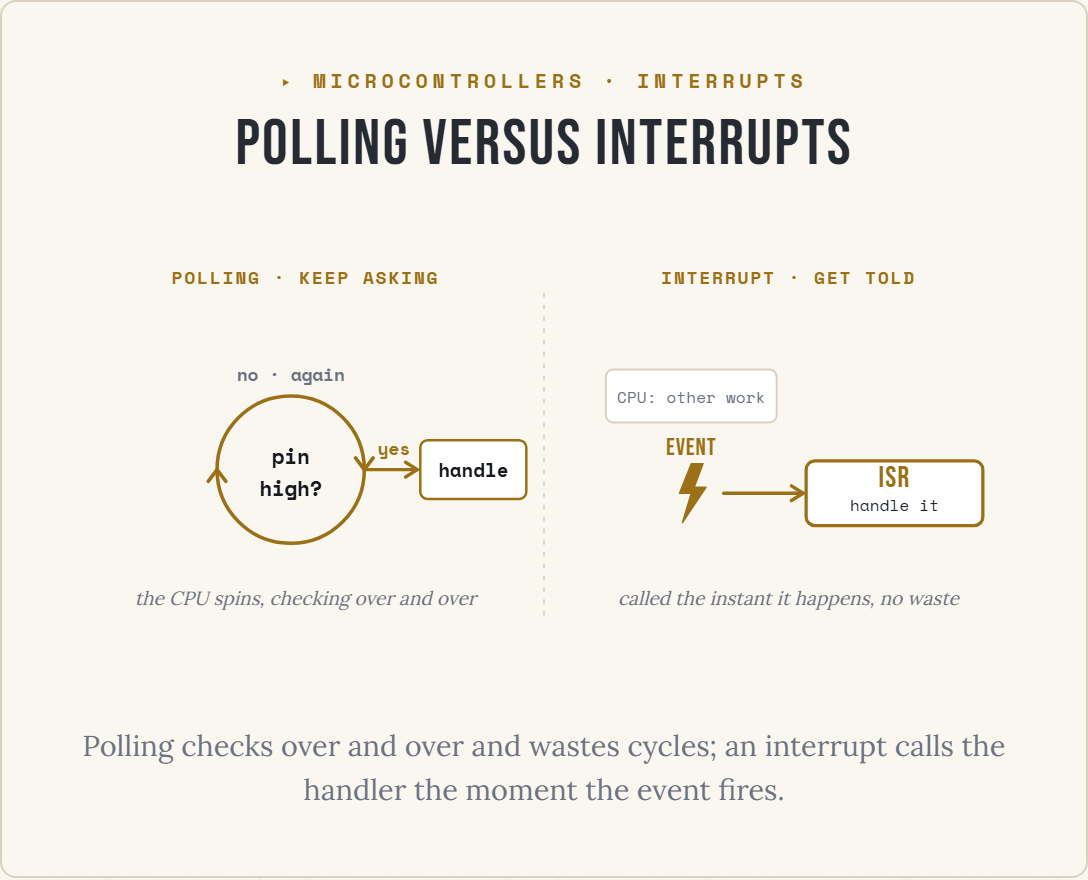
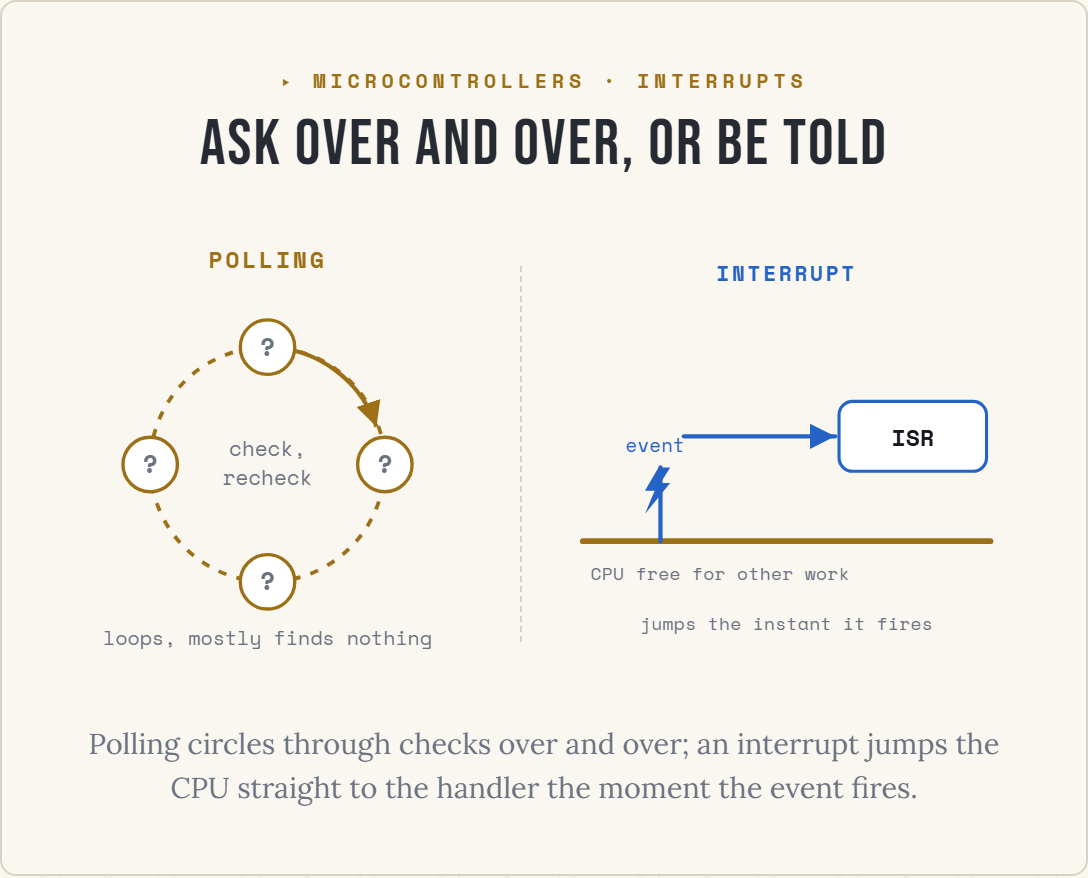
redo(diagrams): mcu-poll-vs-interrupt — a loop vs a straight jump (8/11)
Rebuild to the house bar: the contrast made visual. Polling is a circling loop of
repeated pin checks that mostly find nothing; an interrupt is a straight path,
the event jumping the CPU directly into a short ISR. Gold = the checking loop,
blue = the event path. Two SVG panels that stack full-width on a phone. Landscape
1.27.

diff --git a/src/components/guide/diagrams/McuPollVsInterrupt.tsx b/src/components/guide/diagrams/McuPollVsInterrupt.tsx
@@ -1,106 +1,118 @@
-// Polling versus interrupts (v2). Microcontrollers & ESP32 cluster.
+// Polling versus interrupts (diagram-standards v2). MCU cluster, diagram 8.
+// Owner-picked I4: a circling loop, versus a straight jump.
 //
-// Teaching point: polling is the CPU asking "has it happened yet?" over and over,
-// wasting cycles. An interrupt lets the hardware call your handler the instant the
-// event fires, so the CPU is free until then.
+// Teaching point (lesson 7): polling loops and reads a pin over and over, mostly
+// finding nothing and burning cycles. An interrupt flips it: the hardware watches,
+// and the instant the event fires it jumps the CPU straight into a short handler
+// (the ISR). Left panel draws polling as a loop that circles through checks; right
+// panel draws the interrupt as a straight event-to-ISR path. Gold = the checking
+// loop, blue = the event/interrupt path.
 //
-// Landscape desktop/print: a looping poll circle on the left versus a straight
-// event-to-ISR shot on the right. REFLOWS on a phone to two stacked cards. Tokens.
+// Two SVG panels in a flex row, so they stack full-width on a phone. Token color,
+// both themes. Header + caption from the DiagramFrame.
 import { DiagramFrame } from "./DiagramFrame";
 
+function Bolt({ x, y }: { x: number; y: number }) {
+  return <path d={`M${x} ${y} l -7 12 l 5 0 l -5 12 l 13 -16 l -5 0 l 5 -8 z`} className="pi-bolt" />;
+}
+
+const CHECKS = [
+  { x: 100, y: 54 },
+  { x: 156, y: 110 },
+  { x: 100, y: 166 },
+  { x: 44, y: 110 },
+];
+
 export function McuPollVsInterrupt({ caption }: { caption?: string }) {
-  const cx = 158, cy = 160, r = 50;
   return (
     <DiagramFrame
       eyebrow="MICROCONTROLLERS · INTERRUPTS"
       tone="gold"
-      title="Polling versus interrupts"
-      ariaLabel="Two ways to react to an event, side by side. On the left, polling: the CPU loops, checking the pin over and over, asking is it high yet, and only catches the event on a later check, wasting cycles in between. On the right, an interrupt: the event fires and the hardware calls the interrupt service routine directly, the instant it happens, while the CPU was free to do other work. The interrupt path is direct; the polling path goes in circles."
+      title="Ask over and over, or be told"
+      ariaLabel="Two ways to catch an event, compared. On the left, polling is drawn as a loop: the CPU circles through repeated checks of a pin, asking again and again and mostly finding nothing. On the right, an interrupt is drawn as a straight path: the event fires and jumps the CPU directly into a short interrupt service routine, the ISR, with no checking and a near-instant response."
       caption={caption}
-      defaultCaption="Polling checks over and over and wastes cycles; an interrupt calls the handler the moment the event fires."
+      defaultCaption="Polling circles through checks over and over; an interrupt jumps the CPU straight to the handler the moment the event fires."
     >
       <style>{CSS}</style>
-
       <div className="pi">
-        {/* desktop / print */}
-        <svg className="pi-scene" viewBox="0 0 660 300" aria-hidden="true">
-          <line className="pi-div" x1={330} y1={40} x2={330} y2={264} />
-
-          {/* ── POLLING ── */}
-          <text className="pi-hd" x={168} y={34} textAnchor="middle">POLLING · KEEP ASKING</text>
-          {/* loop circle with tangent arrowheads (clockwise) */}
-          <circle className="pi-loop" cx={cx} cy={cy} r={r} />
-          <path className="pi-loop" fill="none" d={`M${cx + r - 6},${cy - 8} L${cx + r},${cy} L${cx + r + 6},${cy - 8}`} />
-          <path className="pi-loop" fill="none" d={`M${cx - r - 6},${cy + 8} L${cx - r},${cy} L${cx - r + 6},${cy + 8}`} />
-          <text className="pi-cq" x={cx} y={cy - 4} textAnchor="middle">pin</text>
-          <text className="pi-cq" x={cx} y={cy + 18} textAnchor="middle">high?</text>
-          <text className="pi-no" x={cx} y={cy - r - 10} textAnchor="middle">no · again</text>
-          {/* exit: yes → handle */}
-          <line className="pi-w" x1={cx + r} y1={cy} x2={244} y2={cy} />
-          <path className="pi-w" fill="none" d={`M236,${cy - 5} L244,${cy} L236,${cy + 5}`} />
-          <text className="pi-yes" x={228} y={cy - 10} textAnchor="middle">yes</text>
-          <rect className="pi-box" x={246} y={cy - 20} width={72} height={40} rx={5} />
-          <text className="pi-bx" x={282} y={cy + 5} textAnchor="middle">handle</text>
-          <text className="pi-note" x={168} y={252} textAnchor="middle">the CPU spins, checking over and over</text>
-
-          {/* ── INTERRUPT ── */}
-          <text className="pi-hd" x={496} y={34} textAnchor="middle">INTERRUPT · GET TOLD</text>
-          {/* CPU free doing other work */}
-          <rect className="pi-boxd" x={372} y={92} width={116} height={36} rx={5} />
-          <text className="pi-dim" x={430} y={115} textAnchor="middle">CPU: other work</text>
-          {/* event bolt */}
-          <text className="pi-ev" x={430} y={150} textAnchor="middle">EVENT</text>
-          <path className="pi-bolt" d="M430,156 L422,176 L430,176 L424,196 L440,172 L432,172 L438,156 Z" />
-          {/* straight shot to ISR */}
-          <line className="pi-w" x1={452} y1={176} x2={506} y2={176} />
-          <path className="pi-w" fill="none" d="M498,171 L506,176 L498,181" />
-          <rect className="pi-box pi-isr" x={508} y={154} width={120} height={44} rx={6} />
-          <text className="pi-isrt" x={568} y={172} textAnchor="middle">ISR</text>
-          <text className="pi-isrs" x={568} y={188} textAnchor="middle">handle it</text>
-          <text className="pi-note" x={496} y={252} textAnchor="middle">called the instant it happens, no waste</text>
+        {/* POLLING — a loop */}
+        <svg className="pi-svg" viewBox="0 0 210 210" aria-hidden="true">
+          <defs>
+            <marker id="pi-g" markerWidth="8" markerHeight="8" refX="6" refY="3" orient="auto">
+              <path d="M0 0 L6 3 L0 6 Z" className="pi-mk-g" />
+            </marker>
+          </defs>
+          <text x="100" y="16" textAnchor="middle" className="pi-lbl-g">POLLING</text>
+          <circle cx="100" cy="110" r="56" className="pi-ring" />
+          <path d="M100 54 A56 56 0 0 1 152 92" className="pi-ring-arrow" markerEnd="url(#pi-g)" />
+          {CHECKS.map((c, i) => (
+            <g key={i}>
+              <circle cx={c.x} cy={c.y} r="13" className="pi-node" />
+              <text x={c.x} y={c.y + 4} textAnchor="middle" className="pi-q">?</text>
+            </g>
+          ))}
+          <text x="100" y="106" textAnchor="middle" className="pi-mid">check,</text>
+          <text x="100" y="120" textAnchor="middle" className="pi-mid">recheck</text>
+          <text x="100" y="196" textAnchor="middle" className="pi-note">loops, mostly finds nothing</text>
         </svg>
 
-        {/* phone reflow */}
-        <div className="pi-phone" aria-hidden="true">
-          <div className="pi-card pi-cgold">
-            <span className="pi-ceye">Polling</span>
-            <span className="pi-cv">The CPU loops, checking the pin over and over, and catches the event late. Cycles wasted between checks.</span>
-          </div>
-          <div className="pi-card pi-cgold">
-            <span className="pi-ceye">Interrupt</span>
-            <span className="pi-cv">The event fires and the hardware calls the ISR directly, the instant it happens, while the CPU was free.</span>
-          </div>
-        </div>
+        <div className="pi-div" aria-hidden="true" />
+
+        {/* INTERRUPT — a straight jump */}
+        <svg className="pi-svg pi-svg-r" viewBox="0 0 250 210" aria-hidden="true">
+          <defs>
+            <marker id="pi-b" markerWidth="8" markerHeight="8" refX="6" refY="3" orient="auto">
+              <path d="M0 0 L6 3 L0 6 Z" className="pi-mk-b" />
+            </marker>
+          </defs>
+          <text x="125" y="16" textAnchor="middle" className="pi-lbl-b">INTERRUPT</text>
+          <line x1="20" y1="150" x2="230" y2="150" className="pi-work" />
+          <text x="24" y="170" className="pi-note">CPU free for other work</text>
+          <line x1="60" y1="150" x2="60" y2="112" className="pi-jump" />
+          <Bolt x={59} y={112} />
+          <text x="42" y="104" className="pi-evt">event</text>
+          <line x1="72" y1="96" x2="150" y2="96" className="pi-jump" markerEnd="url(#pi-b)" />
+          <rect x="152" y="78" width="76" height="36" rx="7" className="pi-isr" />
+          <text x="190" y="101" textAnchor="middle" className="pi-isr-t">ISR</text>
+          <text x="125" y="196" textAnchor="middle" className="pi-note">jumps the instant it fires</text>
+        </svg>
       </div>
     </DiagramFrame>
   );
 }
 
 const CSS = `
-.pi{display:block;}
-.pi-scene{display:block;width:100%;height:auto;overflow:visible;}
-.pi-div{stroke:var(--color-panel-border,#3a3f50);stroke-width:1.2;stroke-dasharray:3 5;}
-.pi-loop{fill:none;stroke:var(--color-command-gold,#c8963e);stroke-width:2.4;stroke-linecap:round;stroke-linejoin:round;}
-.pi-w{fill:none;stroke:var(--color-command-gold,#c8963e);stroke-width:2.3;stroke-linecap:round;stroke-linejoin:round;}
-.pi-box{fill:var(--color-navy-dark,#1a1a2e);stroke:var(--color-command-gold,#c8963e);stroke-width:1.7;}
-.pi-isr{stroke-width:2.2;}
-.pi-boxd{fill:var(--color-navy-dark,#1a1a2e);stroke:var(--color-panel-border,#3a3f50);stroke-width:1.4;}
-.pi-bolt{fill:var(--color-command-gold,#c8963e);stroke:var(--color-command-gold,#c8963e);stroke-width:1;stroke-linejoin:round;}
-.pi-hd{font-family:var(--font-mono,"Space Mono",monospace);font-weight:700;font-size:12px;letter-spacing:.11em;fill:var(--color-command-gold,#c8963e);}
-.pi-cq{font-family:var(--font-mono,"Space Mono",monospace);font-weight:700;font-size:14px;fill:var(--color-title,#f1ece0);}
-.pi-no{font-family:var(--font-mono,"Space Mono",monospace);font-weight:700;font-size:12px;fill:var(--color-muted,#aaa);}
-.pi-yes{font-family:var(--font-mono,"Space Mono",monospace);font-weight:700;font-size:12px;fill:var(--color-command-gold,#c8963e);}
-.pi-bx{font-family:var(--font-mono,"Space Mono",monospace);font-weight:700;font-size:13px;fill:var(--color-title,#f1ece0);}
-.pi-dim{font-family:var(--font-mono,"Space Mono",monospace);font-weight:400;font-size:11px;fill:var(--color-muted,#aaa);}
-.pi-ev{font-family:var(--font-display,"Bebas Neue",sans-serif);font-size:16px;letter-spacing:.05em;fill:var(--color-command-gold,#c8963e);}
-.pi-isrt{font-family:var(--font-display,"Bebas Neue",sans-serif);font-size:20px;letter-spacing:.04em;fill:var(--color-command-gold,#c8963e);}
-.pi-isrs{font-family:var(--font-mono,"Space Mono",monospace);font-weight:400;font-size:11px;fill:var(--color-text,#e8e8e8);}
-.pi-note{font-family:var(--font-serif,"Lora",serif);font-style:italic;font-size:13px;fill:var(--color-muted,#aaa);}
+.pi{display:flex;gap:.7rem;align-items:center;justify-content:center;max-width:36rem;margin-inline:auto;}
+.pi-svg{flex:1 1 200px;min-width:0;max-width:220px;height:auto;overflow:visible;}
+.pi-svg-r{max-width:264px;}
+.pi-div{flex:0 0 0;align-self:stretch;border-left:1px dashed var(--color-panel-border,#3a3f50);margin:1rem 0;}
+@media (max-width:520px){
+  .pi{flex-direction:column;gap:.3rem;}
+  .pi-svg{max-width:min(300px,100%);}
+  .pi-div{align-self:stretch;border-left:0;border-top:1px dashed var(--color-panel-border,#3a3f50);margin:0 2rem;width:auto;}
+}
+.pi-ring{fill:none;stroke:var(--color-command-gold,#c8963e);stroke-width:1.8;stroke-dasharray:4 5;}
+.pi-ring-arrow{fill:none;stroke:var(--color-command-gold,#c8963e);stroke-width:2;}
+.pi-mk-g{fill:var(--color-command-gold,#c8963e);}
+.pi-mk-b{fill:var(--color-signal-blue,#4a8fff);}
+.pi-node{fill:var(--color-navy-dark,#1a1a2e);stroke:var(--color-command-gold,#c8963e);stroke-width:1.6;}
+.pi-q{font-family:var(--font-mono,"Space Mono",monospace);font-weight:700;font-size:12px;fill:var(--color-muted,#aaaaaa);}
+.pi-mid{font-family:var(--font-mono,"Space Mono",monospace);font-size:10px;fill:var(--color-muted,#aaaaaa);}
+.pi-lbl-g{font-family:var(--font-mono,"Space Mono",monospace);font-weight:700;font-size:11px;letter-spacing:.12em;fill:var(--color-command-gold,#c8963e);}
+.pi-lbl-b{font-family:var(--font-mono,"Space Mono",monospace);font-weight:700;font-size:11px;letter-spacing:.12em;fill:var(--color-signal-blue,#4a8fff);}
+.pi-work{stroke:var(--color-command-gold,#c8963e);stroke-width:3;stroke-linecap:round;}
+.pi-jump{stroke:var(--color-signal-blue,#4a8fff);stroke-width:2.2;stroke-linecap:round;}
+.pi-bolt{fill:var(--color-signal-blue,#4a8fff);}
+.pi-evt{font-family:var(--font-mono,"Space Mono",monospace);font-size:10px;fill:var(--color-signal-blue,#4a8fff);}
+.pi-isr{fill:var(--color-navy-dark,#1a1a2e);stroke:var(--color-signal-blue,#4a8fff);stroke-width:1.6;}
+.pi-isr-t{font-family:var(--font-mono,"Space Mono",monospace);font-weight:700;font-size:12px;fill:var(--color-title,#f1ece0);}
+.pi-note{font-family:var(--font-mono,"Space Mono",monospace);font-size:9.5px;fill:var(--color-muted,#aaaaaa);}
 
-/* phone reflow */
-.pi-phone{display:none;}
-@media (max-width:520px){ .pi-scene{display:none;} .pi-phone{display:block;} }
-.pi-card{border:1px solid var(--color-command-gold,#c8963e);border-radius:6px;background:var(--color-navy-dark,#1a1a2e);padding:.55rem .7rem;margin-bottom:.55rem;display:flex;flex-direction:column;gap:.2rem;}
-.pi-ceye{font-family:var(--font-mono,"Space Mono",monospace);font-weight:700;font-size:.7rem;letter-spacing:.1em;text-transform:uppercase;color:var(--color-command-gold,#c8963e);}
-.pi-cv{font-family:var(--font-serif,"Lora",serif);font-size:.92rem;line-height:1.45;color:var(--color-text,#e8e8e8);}
+/* Tier-B reveal off the frame's armed/in contract (final state under reduced-motion). */
+.dgfrm.armed .pi-svg{opacity:0;transform:translateY(6px);}
+.dgfrm.armed.in .pi-svg{opacity:1;transform:none;transition:opacity .55s ease,transform .55s cubic-bezier(.2,.7,.2,1);}
+.dgfrm.armed.in .pi-svg-r{transition-delay:.12s;}
+@media (prefers-reduced-motion:reduce){
+  .dgfrm .pi-svg{opacity:1!important;transform:none!important;transition:none!important;}
+}
 `;
